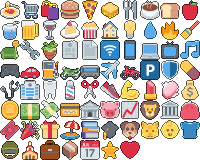
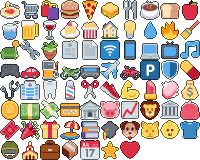
ícones: só cinzas escuros clareiam (cor saturada fica)
Claude-Session: https://claude.ai/code/session_01F6nMEBzVrS9QDV5htQ6Qwv

diff --git a/tools/icones/gerar.py b/tools/icones/gerar.py
@@ -42,9 +42,11 @@ def pixelar(codigo, n):
         k = min(10, len(lista))
         q = Image.fromarray(lista).quantize(colors=k, method=Image.Quantize.MEDIANCUT)
         pal = np.array(q.getpalette()[:k * 3]).reshape(-1, 3).astype(np.float32)
-        # pretos fortes viram grafite (senão somem no tema escuro); o contorno continua mais escuro
+        # cinzas e pretos escuros viram grafite (senão somem no tema escuro); cor saturada fica como
+        # está; o contorno continua mais escuro
         lum = pal @ np.array([0.2126, 0.7152, 0.0722], np.float32)
-        escuros = lum < 75
+        croma = pal.max(axis=1) - pal.min(axis=1)
+        escuros = (lum < 75) & (croma < 70)
         pal[escuros] = pal[escuros] * 0.4 + np.array([140, 146, 160], np.float32) * 0.6
         rgb8[cheio] = pal.astype(np.uint8)[np.array(q).reshape(-1)]
     out = np.zeros((n, n, 4), np.uint8)
